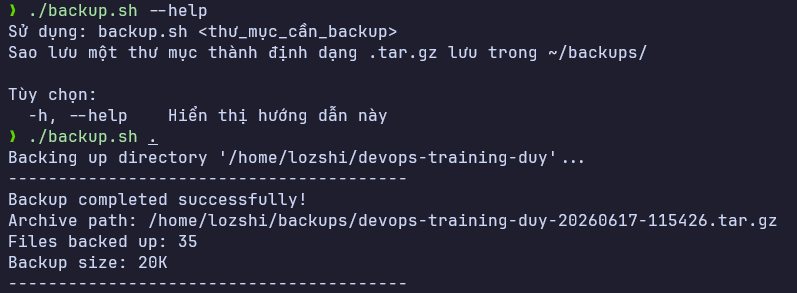
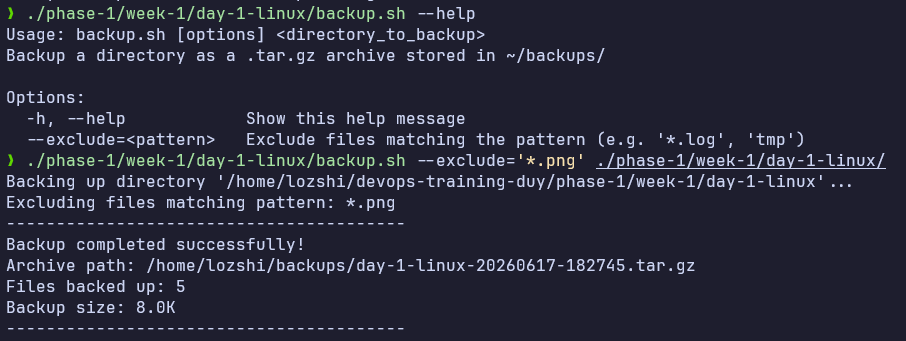
feat: add --exclude flag for backup.sh

diff --git a/phase-1/week-1/day-1-linux/README.md b/phase-1/week-1/day-1-linux/README.md
@@ -1,8 +1,24 @@
-# Part A
+# Task: Linux fundamentals
+
+- **Intern**: Trương Quang Duy
+- **Phase/Week/Day**: phase-1/week-1/day-1
+- **Branch**: phase-1/week-1/day-1-linux
+- **Submitted at**: 2026-06-17 18:45
+- **Time spent**: 4h
+
+# 1. Mục Tiêu
+
+- Tìm hiểu các lệnh linux cơ bản
+- Viết được script đơn giản để observe hệ thống
+- Viết được script để backup folder bằng cách nén và đưa sang thư mục backup
+
+# 2. Cách chạy và kết quả
+
+## Part A
 
 Đã tổng hợp chi tiết mô tả và ví dụ sử dụng cho lệnh Linux cơ bản trong file [notes.md](./notes.md).
 
-# Part B
+## Part B
 
 ```shell
 echo "1. Top 5 process tốn RAM nhất"
@@ -35,11 +51,15 @@ chmod +x ./lab.sh
 ./lab.sh
 ```
 
+### Kết quả ví dụ
+
 ![Lab Execution](./screenshots/lab.png)
+
+Ở đây vì chưa có ai truy cập vào máy em nên chưa có IP xuất hiện ở trong auth.log
 
 ---
 
-# Part C
+## Part C
 
 Kịch bản Shell Script tự động sao lưu một thư mục chỉ định dưới định dạng nén `.tar.gz` lưu trữ tại thư mục `~/backups/`.
 
@@ -47,29 +67,41 @@ Kịch bản Shell Script tự động sao lưu một thư mục chỉ định d
 #!/usr/bin/env bash
 set -euo pipefail
 
+# =====================================================================
+# Script: backup.sh
+# Description: Backup a directory as a .tar.gz archive in ~/backups/
+# =====================================================================
+
+# Function to show help and usage instructions
 show_help() {
-    echo "Usage: $(basename "$0") <directory_to_backup>"
+    echo "Usage: $(basename "$0") [options] <directory_to_backup>"
     echo "Backup a directory as a .tar.gz archive stored in ~/backups/"
     echo ""
     echo "Options:"
-    echo "  -h, --help    Show this help message"
+    echo "  -h, --help            Show this help message"
+    echo "  --exclude=<pattern>   Exclude files matching the pattern (e.g. '*.log', 'tmp')"
 }
 
-
+# Function to perform the backup and print statistics
 perform_backup() {
     local target_dir="$1"
+    local exclude_pattern="${2:-}"
 
+    # Check if the target directory exists
     if [ ! -d "$target_dir" ]; then
         echo "Error: Directory '$target_dir' does not exist." >&2
         exit 1
     fi
 
+    # Resolve absolute path to prevent naming the backup '.' when '.' is passed
     local target_abs_path
     target_abs_path=$(realpath "$target_dir")
 
+    # Ensure backup directory exists
     local backup_dir="$HOME/backups"
     mkdir -p "$backup_dir"
 
+    # Get directory name and timestamp
     local dir_basename
     dir_basename=$(basename "$target_abs_path")
     local timestamp
@@ -80,8 +112,16 @@ perform_backup() {
 
     echo "Backing up directory '$target_abs_path'..."
 
-    tar -czf "$backup_path" -C "$(dirname "$target_abs_path")" "$dir_basename"
+    # Compress the source directory from its parent folder, applying exclude pattern if set
+    if [ -n "$exclude_pattern" ]; then
+        echo "Excluding files matching pattern: $exclude_pattern"
+        tar --exclude="$exclude_pattern" -czf "$backup_path" -C "$(dirname "$target_abs_path")" "$dir_basename"
+    else
+        tar -czf "$backup_path" -C "$(dirname "$target_abs_path")" "$dir_basename"
+    fi
 
+    # Calculate count of files and size of the generated archive
+    # Use grep -v '/$' to exclude directories from the file count
     local file_count
     file_count=$(tar -tzf "$backup_path" | grep -v '/$' | wc -l)
 
@@ -96,33 +136,109 @@ perform_backup() {
     echo "----------------------------------------"
 }
 
+# --- Command Line Arguments Parsing ---
+
+# If no arguments provided, show help and exit with 1
 if [ $# -eq 0 ]; then
     show_help
     exit 1
 fi
 
-case "$1" in
-    -h|--help)
-        show_help
-        exit 0
-        ;;
-    *)
-        input_dir="${1%/}"
-        perform_backup "$input_dir"
-        ;;
-esac
+exclude_pattern=""
+input_dir=""
 
+while [[ $# -gt 0 ]]; do
+    case "$1" in
+        -h|--help)
+            show_help
+            exit 0
+            ;;
+        --exclude=*)
+            exclude_pattern="${1#*=}"
+            shift
+            ;;
+        --exclude)
+            if [[ $# -gt 1 ]]; then
+                exclude_pattern="$2"
+                shift 2
+            else
+                echo "Error: --exclude requires an argument." >&2
+                exit 1
+            fi
+            ;;
+        -*)
+            echo "Error: Unknown option $1" >&2
+            show_help
+            exit 1
+            ;;
+        *)
+            if [[ -z "$input_dir" ]]; then
+                input_dir="${1%/}"
+                shift
+            else
+                echo "Error: Multiple target directories specified." >&2
+                show_help
+                exit 1
+            fi
+            ;;
+    esac
+done
+
+# Ensure a target directory was specified
+if [[ -z "$input_dir" ]]; then
+    echo "Error: Missing target directory to backup." >&2
+    show_help
+    exit 1
+fi
+
+# Run the backup process
+perform_backup "$input_dir" "$exclude_pattern"
 ```
 
 ### Chạy script
 
 ```bash
 chmod +x ./backup.sh
+
+# Chạy sao lưu thông thường
 ./backup.sh <directory_to_backup>
+
+# Chạy sao lưu có loại trừ các file/thư mục trùng khớp với mẫu (pattern)
+./backup.sh --exclude="*.log" <directory_to_backup>
 ```
+
+### Kết quả ví dụ
 
 ![Backup Execution](./screenshots/backup.png)
 
-### Ở folder ~/backups
+Ở folder ~/backups
 
 ![Backup Result](./screenshots/result.png)
+
+### Mở rộng
+
+Em đã thêm flag --exclude=`<pattern>` cho Part C
+
+Ở phần này em sử dụng các alias:
+
+```bash
+alias ll='ls -alF'
+alias la='ls -A'
+alias l='ls -CF'
+```
+
+# 3. Vấn đề
+
+- Không có IP nào truy cập => Giải quyết: Do chưa bật ssh server và không có ai truy cập vào máy nên không có IP nào truy cập là đúng.
+
+# 4. Reference
+
+- Em sử dụng AI để tra cứu nhanh những lệnh chưa biết và để làm rõ các syntax mới.
+
+# 5. Self-check
+
+- [x] Code chạy được trên máy sạch.
+- [x] README có hướng dẫn run lại.
+- [x] Không hard-code secret.
+- [x] Commit message theo Conventional Commits.
+- [x] Đã review lại code 1 lượt.
